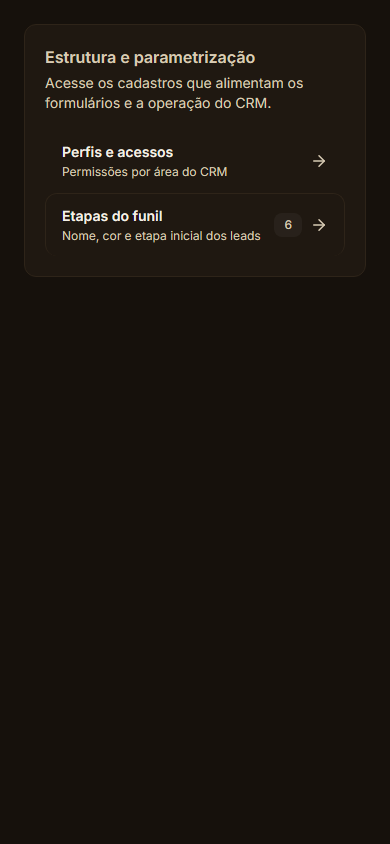
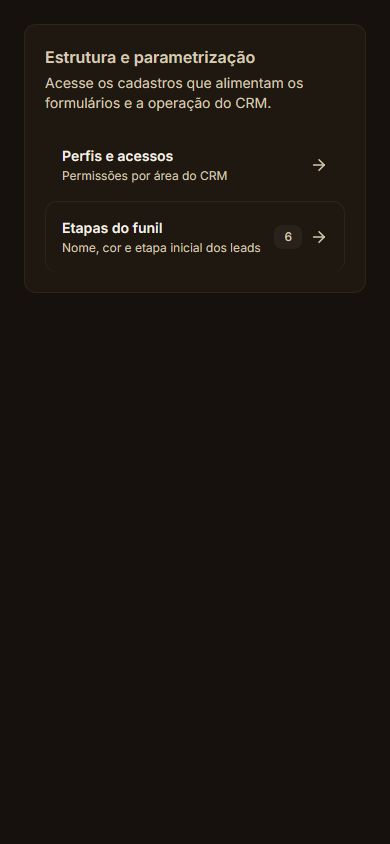
Corrige recuo dos atalhos de configurações

diff --git a/src/features/config/general/components/SettingsCatalogLink.tsx b/src/features/config/general/components/SettingsCatalogLink.tsx
@@ -20,18 +20,20 @@ export function SettingsCatalogLink({
   return (
     <ActionSurface
       variant="plain"
-      padding="sm"
-      className="kds-settings-catalog-link flex w-full items-center justify-between gap-3 text-left"
+      padding="none"
+      className="kds-settings-catalog-link w-full text-left"
       aria-label={ariaLabel}
       onClick={onClick}
     >
-      <span className="min-w-0">
-        <span className="block text-sm font-semibold text-[var(--text-primary)]">{title}</span>
-        <span className="mt-0.5 block text-xs text-[var(--text-secondary)]">{description}</span>
-      </span>
-      <span className="flex shrink-0 items-center gap-2">
-        {count !== undefined && <Badge tone="neutral">{count}</Badge>}
-        <ArrowRight className="kds-control-icon text-[var(--text-secondary)]" aria-hidden="true" />
+      <span className="kds-card-padding-sm flex w-full items-center justify-between gap-3">
+        <span className="min-w-0">
+          <span className="block text-sm font-semibold text-[var(--text-primary)]">{title}</span>
+          <span className="mt-0.5 block text-xs text-[var(--text-secondary)]">{description}</span>
+        </span>
+        <span className="flex shrink-0 items-center gap-2">
+          {count !== undefined && <Badge tone="neutral">{count}</Badge>}
+          <ArrowRight className="kds-control-icon text-[var(--text-secondary)]" aria-hidden="true" />
+        </span>
       </span>
     </ActionSurface>
   );

diff --git a/src/features/config/general/components/__tests__/SettingsCatalogLink.test.tsx b/src/features/config/general/components/__tests__/SettingsCatalogLink.test.tsx
@@ -20,7 +20,11 @@ test('atalho de configurações preserva espaçamento por tokens, navegação e 
   const button = view.container.querySelector<HTMLButtonElement>('button[aria-label="Abrir perfis e acessos"]');
   assert.ok(button);
   assert.ok(button.classList.contains('kds-settings-catalog-link'));
-  assert.ok(button.classList.contains('kds-card-padding-sm'));
+  assert.equal(button.classList.contains('kds-card-padding-sm'), false);
+  const content = button.querySelector<HTMLElement>('.kds-card-padding-sm');
+  assert.ok(content);
+  assert.ok(content.classList.contains('flex'));
+  assert.equal(content.textContent?.includes('Perfis e acessos'), true);
   assert.equal(button.classList.contains('px-3'), false);
   assert.equal(button.classList.contains('py-3'), false);
   assert.ok(view.container.textContent?.includes('Permissões por área do CRM'));

diff --git a/kifersaude-ui-redesign/STATUS_IMPLEMENTACAO.md b/kifersaude-ui-redesign/STATUS_IMPLEMENTACAO.md
@@ -22,7 +22,7 @@ O manifesto registra **160 contextos**: **47 páginas, 19 contextos adicionais e
 
 ### Configurações — espaçamento dos atalhos (30/10/2026)
 
-- Os cinco atalhos de **Estrutura e parametrização** usam `SettingsCatalogLink` com 12 px de padding vertical e 16 px horizontal por tokens do design system. A regra do componente não depende mais do escopo do tema; os destinos, contagens e permissões permanecem iguais. O teste focado cobre o clique e Playwright conferiu 12 px × 16 px em desktop/mobile nos dois temas, sem overflow. A captura isolada do componente não substitui a revisão integrada autenticada. [Evidências](validacao/revisao-visual/config/README.md).
+- Os cinco atalhos de **Estrutura e parametrização** usam `SettingsCatalogLink` com o token `kds-card-padding-sm` no contêiner interno. O botão mantém a borda e o hover; texto, contagem e seta ficam recuados pelo token, sem depender do padding externo do botão. Destinos, contagens e permissões permanecem iguais. O teste focado passou e Playwright mediu 16 px de padding interno (17 px entre borda e conteúdo), inclusive no hover, em 390 px; as capturas foram atualizadas em desktop e mobile nos dois temas, sem overflow. A captura isolada do componente não substitui a revisão integrada autenticada. [Evidências](validacao/revisao-visual/config/README.md).
 
 ### Contratos — formulário de titular em página (30/10/2026)
 
@@ -30,8 +30,8 @@ O manifesto registra **160 contextos**: **47 páginas, 19 contextos adicionais e
 
 ### Gates desta entrega (30/10/2026)
 
-- Testes focados: **2/2**; typecheck, auditorias visual/Design System/arquitetura, lint e build passaram. O lint mantém cinco avisos Fast Refresh em prévias Playwright preexistentes. O build mantém o aviso conhecido do chunk vendor acima de 500 kB.
-- Suíte completa: **1.835 testes passaram e 4 falharam** em `ContractForm.presentation.test.tsx`, `ConfigPageScreen.test.tsx` (2) e `UsersScreen.test.tsx` (1). Os testes e componentes de produção desses arquivos não fazem parte desta alteração; os contextos afetados seguem em revisão.
+- Teste focado desta correção: **1/1**. Typecheck, lint, arquitetura, `secrets:check`, auditorias visual/Design System, build e verificação do bundle do editor passaram. O lint mantém cinco avisos Fast Refresh em prévias Playwright preexistentes. O build mantém o aviso conhecido do chunk vendor acima de 500 kB.
+- A suíte completa foi atualizada após corrigir expectativas de testes defasadas: **1.840 testes passaram em 349 arquivos**; não há falhas pendentes nesses três arquivos de contratos/configurações/usuários.
 
 ### Configurações — Links públicos
 

diff --git a/kifersaude-ui-redesign/validacao/revisao-visual/config/README.md b/kifersaude-ui-redesign/validacao/revisao-visual/config/README.md
@@ -16,7 +16,7 @@ Referências: `references/desktop/page--config-system.png` e `references/mobile/
 
 O conteúdo preserva as preferências reais de formato de data, fuso horário, sessão e notificações. O painel “Estrutura e parametrização” leva a acessos e cadastros já existentes. A faixa secundária e a busca ficam fora da visão inicial quando a pessoa está nas preferências; os atalhos do painel mantêm acesso aos demais grupos e reduzem uma camada de navegação nessa página.
 
-Os cinco atalhos do painel compartilham o componente `SettingsCatalogLink`. O texto e o ícone mantêm 12 px de respiro vertical e 16 px horizontal por tokens do design system; isso evita que rótulos encostem na borda. Os destinos, rótulos, contagens e regras de visibilidade por permissão foram preservados. Playwright conferiu o padding calculado e capturou uma prévia isolada do componente real em 1920 × 1080 e 390 × 844, nos temas claro e escuro, sem overflow. A captura integrada da página de configurações ainda depende de sessão autenticada.
+Os cinco atalhos do painel compartilham o componente `SettingsCatalogLink`. O padding de 16 px do token `kds-card-padding-sm` fica num contêiner interno, mantendo o respiro do conteúdo independente do padding externo do botão. A borda e o hover permanecem no botão externo. Texto, ícone, rótulos, contagens, destinos e regras de visibilidade por permissão foram preservados. Playwright mediu 16 px de padding interno (17 px entre a borda do botão e texto/seta) e capturou a prévia isolada do componente real em 1920 × 1080 e 390 × 844, nos temas claro e escuro, sem overflow. Também conferiu que o hover não encosta o conteúdo na borda:
 
 | Componente / viewport | Captura |
 | --- | --- |
@@ -24,6 +24,9 @@ Os cinco atalhos do painel compartilham o componente `SettingsCatalogLink`. O te
 | Atalhos, desktop 1920 × 1080, escuro | [settings-catalog-links-desktop-dark.png](settings-catalog-links-desktop-dark.png) |
 | Atalhos, mobile 390 × 844, claro | [settings-catalog-links-mobile-light.png](settings-catalog-links-mobile-light.png) |
 | Atalhos, mobile 390 × 844, escuro | [settings-catalog-links-mobile-dark.png](settings-catalog-links-mobile-dark.png) |
+| Atalho em hover, mobile 390 × 844, claro | [settings-catalog-link-hover-mobile-light.png](settings-catalog-link-hover-mobile-light.png) |
+
+A captura integrada da página de configurações ainda depende de sessão autenticada.
 
 ## Origens dos leads
 
